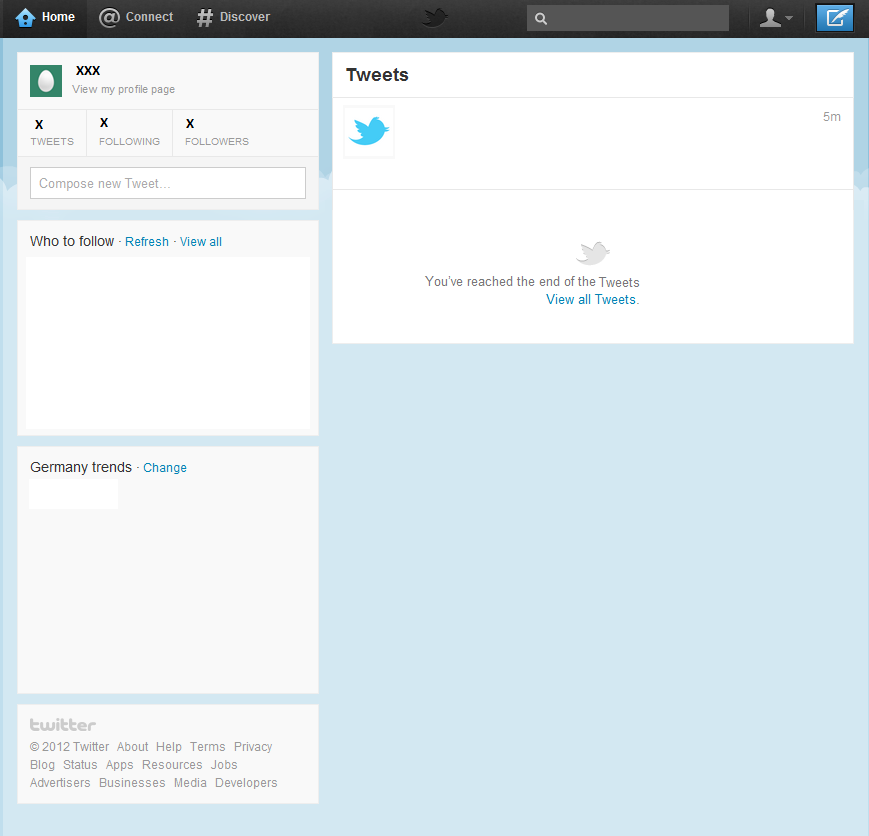
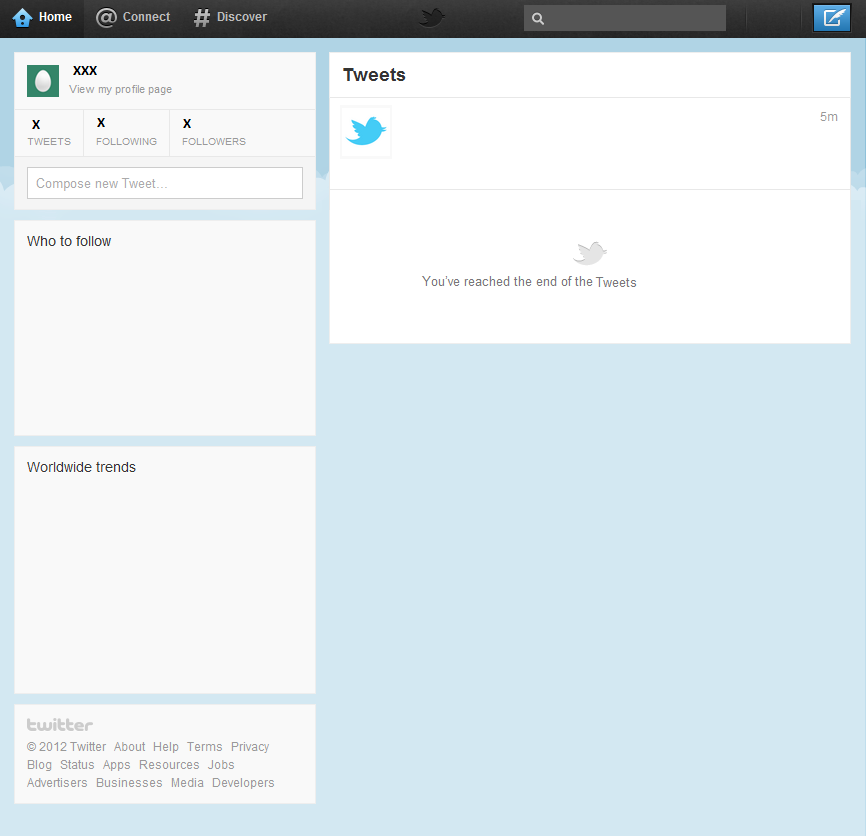
changed layout table to div

diff --git a/public/stylesheets/experiment.css b/public/stylesheets/experiment.css
@@ -7,11 +7,12 @@ body {
 #seite_plane {
     background-image:url('../images/Twitter_hintergrund.png');
     background-repeat: repeat-x;
-    background-position: left 67px;
+    background-position: left 0px;
     padding-top:0px;
     margin-bottom:50px;
-    width:100%;
-    heigth:1500px;
+    width:100%;    
+    height: 830px;
+    text-align: center;
 }
 
 
@@ -21,8 +22,20 @@ body {
     background-position: left top;
     position:relative;
     left:0px; top:0px;
+    width: 860px;
+    height: 100%;
+    margin:0 auto;
 
 }
+#left_twitter{
+  width: 15%;
+  height: 100%;
+  float: left;
+}
+#tweet{
+  position: absolute; bottom: 0;
+}
+
 #container{
     
 }
@@ -50,11 +63,40 @@ body {
 
 #message{
  position:relative;
- left:405px; top:82px; width:400px; height:50px;
+ left:405px;
+ top:105px;
+ width:400px;
+ height:90px;
  font-size: 0.95em;
 }
 
+#actions{
+  width: 270px;
+  height: 93px;
+  display:none;
+  float: right;
+}
 
+#retweet{
+  float: left;
+}
+
+#tweeter_name{
+  float: left;
+  height: 93px;
+  position: absolute;
+}
+#open{
+  float: left;
+}
+
+#reply{
+  float: left;
+}
+
+#favorite{
+  float: left;  
+}
 
 #buttons {
   width: 75%;
